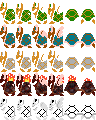
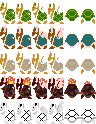
🔨 fix: Imagenes bien recortadas

diff --git a/src/Client/App/Dibujadores/Recortes/Recorte.cpp b/src/Client/App/Dibujadores/Recortes/Recorte.cpp
@@ -44,7 +44,7 @@ SDL_Rect Recorte::obtenerRecorte(int recorteX, int recorteY) {
         std::advance(iterador, recorteX);
         estado = *iterador;
     }
-    estado.y = recorteY * estado.h;
+    estado.y = recorteY * (estado.h+1);
     return estado;
 }
 

diff --git a/src/Client/App/Dibujadores/Recortes/RecorteBloque.cpp b/src/Client/App/Dibujadores/Recortes/RecorteBloque.cpp
@@ -1,7 +1,7 @@
 #include "RecorteBloque.hpp"
 
 const int DESPLAZAMIENTO_BLOQUES_X = 16;
-const int ALTO_BLOQUE = DESPLAZAMIENTO_BLOQUES_X;
+const int ALTO_BLOQUE = 16;
 const int ANCHO_BLOQUE = ALTO_BLOQUE;
 
 RecorteBloque::RecorteBloque() {
